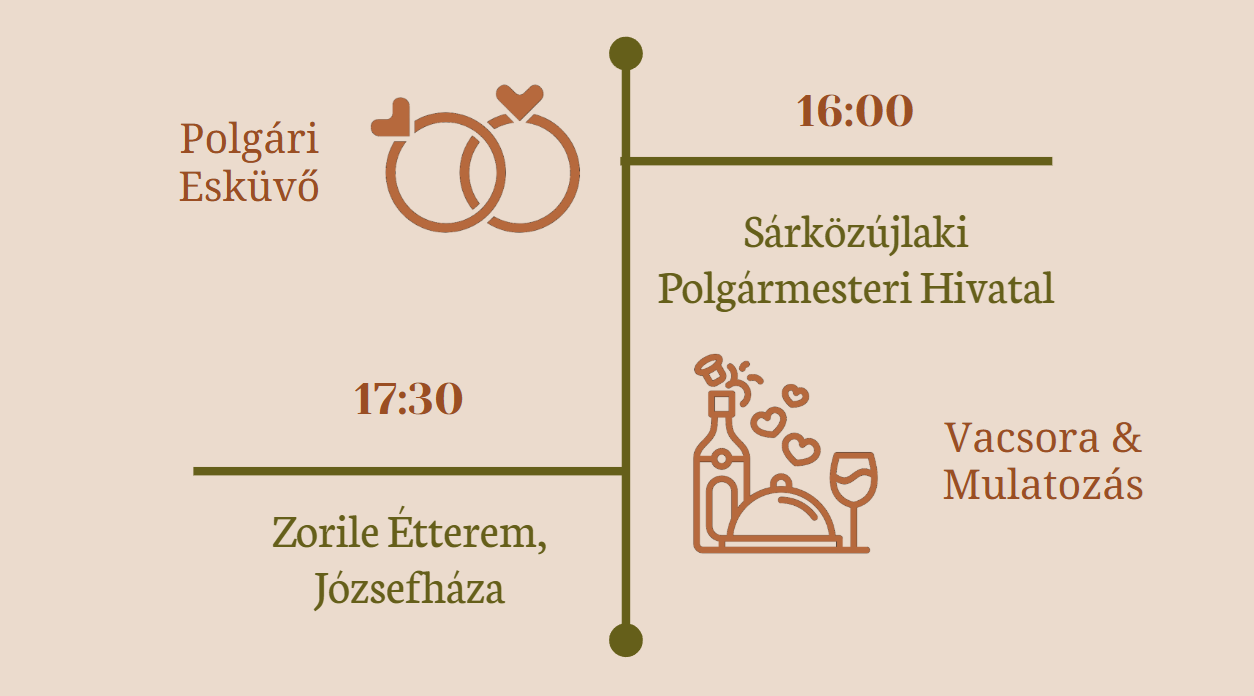
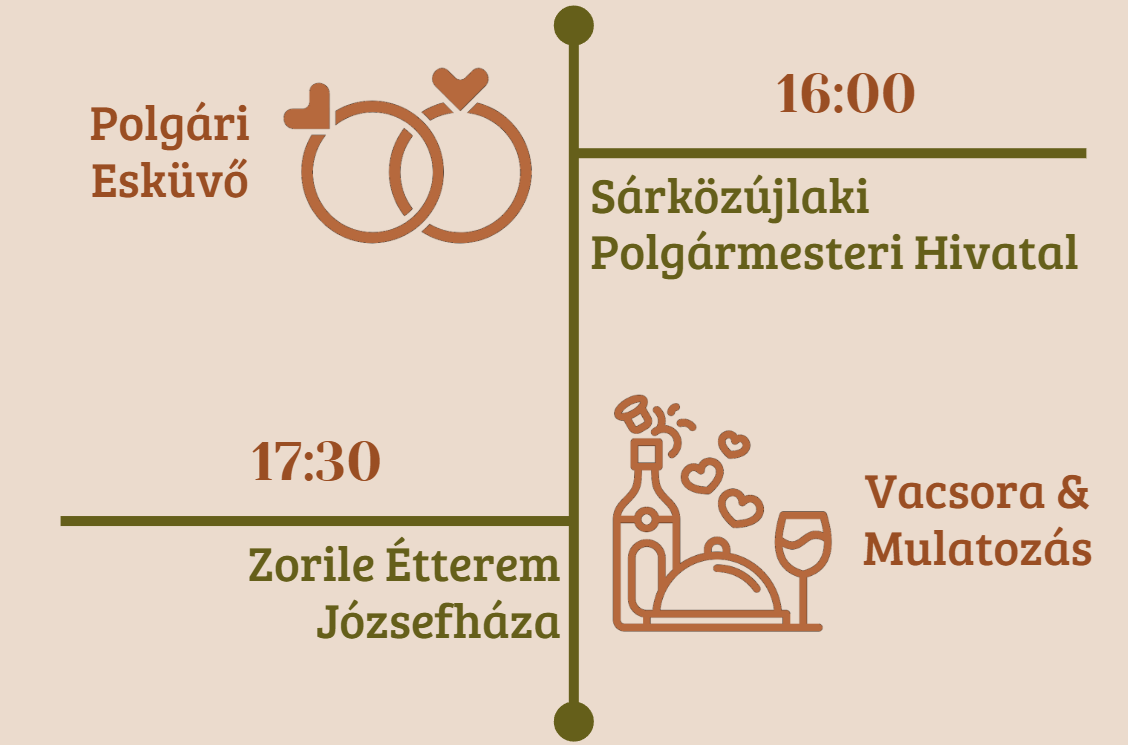
v6

Changed region(s): [[0.031, 0.0, 0.9929, 0.9957]]

diff --git a/src/App.tsx b/src/App.tsx
@@ -2,7 +2,6 @@ import {createTheme, ThemeProvider} from "@mui/material/styles";
 import type {ThemeOptions} from "@mui/material";
 import {Button, Grid, Typography} from "@mui/material";
 import flowerLImg from "../src/static/flowers/FlowerLarge.png";
-import program from "../src/static/Program.png"
 import program2 from "../src/static/Program2.png"
 
 const paletteTheme: ThemeOptions = {
@@ -47,19 +46,19 @@ const paletteTheme: ThemeOptions = {
     },
 
     typography: {
-        fontFamily: "'Noto Serif Ethiopic', cursive",
+        fontFamily: "'Bree Serif', serif",
         h1: {
             fontFamily: "'Great Vibes', cursive",
             color: "#b6693d",
-            fontSize: "4.5rem",
+            fontSize: "4.7rem",
             "@media (min-width:650px)": {
-                fontSize: "5.5rem",
+                fontSize: "5.7rem",
             },
             "@media (min-width:800px)": {
-                fontSize: "7rem",
+                fontSize: "7.5rem",
             },
             "@media (min-width:1280px)": {
-                fontSize: "9rem",
+                fontSize: "9.5rem",
             },
         },
 
@@ -67,15 +66,16 @@ const paletteTheme: ThemeOptions = {
             // color: "#b6693d",
             fontSize: "1rem",
             "@media (min-width:650px)": {
-                fontSize: "1.1rem",
-            },
-            "@media (min-width:800px)": {
                 fontSize: "1.3rem",
             },
-            "@media (min-width:1280px)": {
+            "@media (min-width:800px)": {
                 fontSize: "1.5rem",
             },
-        }
+            "@media (min-width:1280px)": {
+                fontSize: "1.7rem",
+            },
+        },
+
 
     },
 };
@@ -117,7 +117,6 @@ function App() {
 
 
                 <br/>
-
                 <Typography variant="h1" className="titleText">Vik & Gerő</Typography>
                 <br/>
 
@@ -132,6 +131,7 @@ function App() {
                     sx={{
                         color: "#655f1a",
                         borderColor: "#b6693d",
+                        textTransform: "none",
 
                         "&:hover": {
                             color: "#9a4e23",
@@ -142,14 +142,13 @@ function App() {
 
                     target="_blank"
                 >
-
-                    Visszajelzek!
+                    <Typography variant="h6">Visszajelzek!</Typography>
                 </Button>
 
 
                 <br/>
 
-                <Typography variant="h5" className="dateText">2025. Május 31</Typography>
+                <Typography variant="h5" className="dateText">2025. Május 31.</Typography>
                 <br/>
 
                 <img src={program2} alt="program" className="programImg"/>

diff --git a/src/index.css b/src/index.css
@@ -1,8 +1,7 @@
-@import url('https://fonts.googleapis.com/css2?family=Bonbon&family=Great+Vibes&family=Imperial+Script&family=Merienda:wght@300..900&family=Noto+Serif+Ethiopic:wght@100..900&family=Noto+Serif:ital,wght@0,100..900;1,100..900&display=swap');
-
+@import url('https://fonts.googleapis.com/css2?family=Bonbon&family=Bree+Serif&family=Great+Vibes&family=Imperial+Script&family=Merienda:wght@300..900&family=Noto+Serif+Ethiopic:wght@100..900&family=Noto+Serif:ital,wght@0,100..900;1,100..900&display=swap');
 
 :root {
-    font-family: "Noto Serif Ethiopic", serif;
+    font-family: "Bree Serif", serif;
     font-optical-sizing: auto;
     font-weight: 400;
     font-style: normal;
@@ -29,12 +28,7 @@ body {
 }
 
 
-.avgDiv {
-    display: flex;
-    flex-direction: column;
-    justify-content: center;
-    align-items: center;
-}
+
 
 .greetingText {
     text-align: center;
